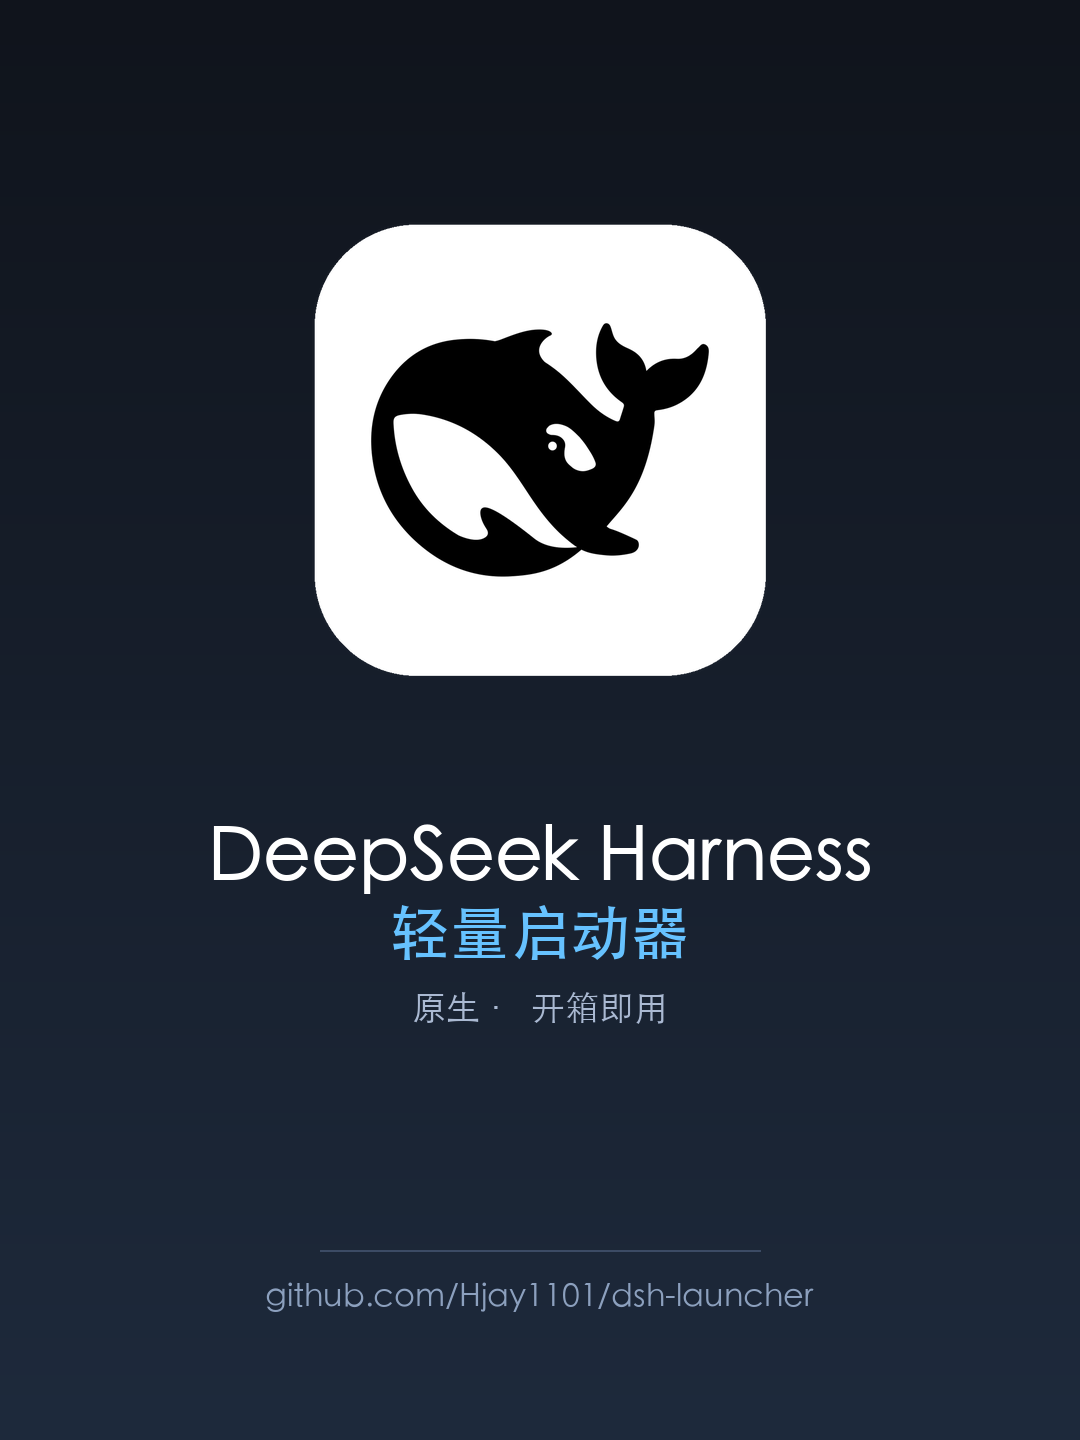
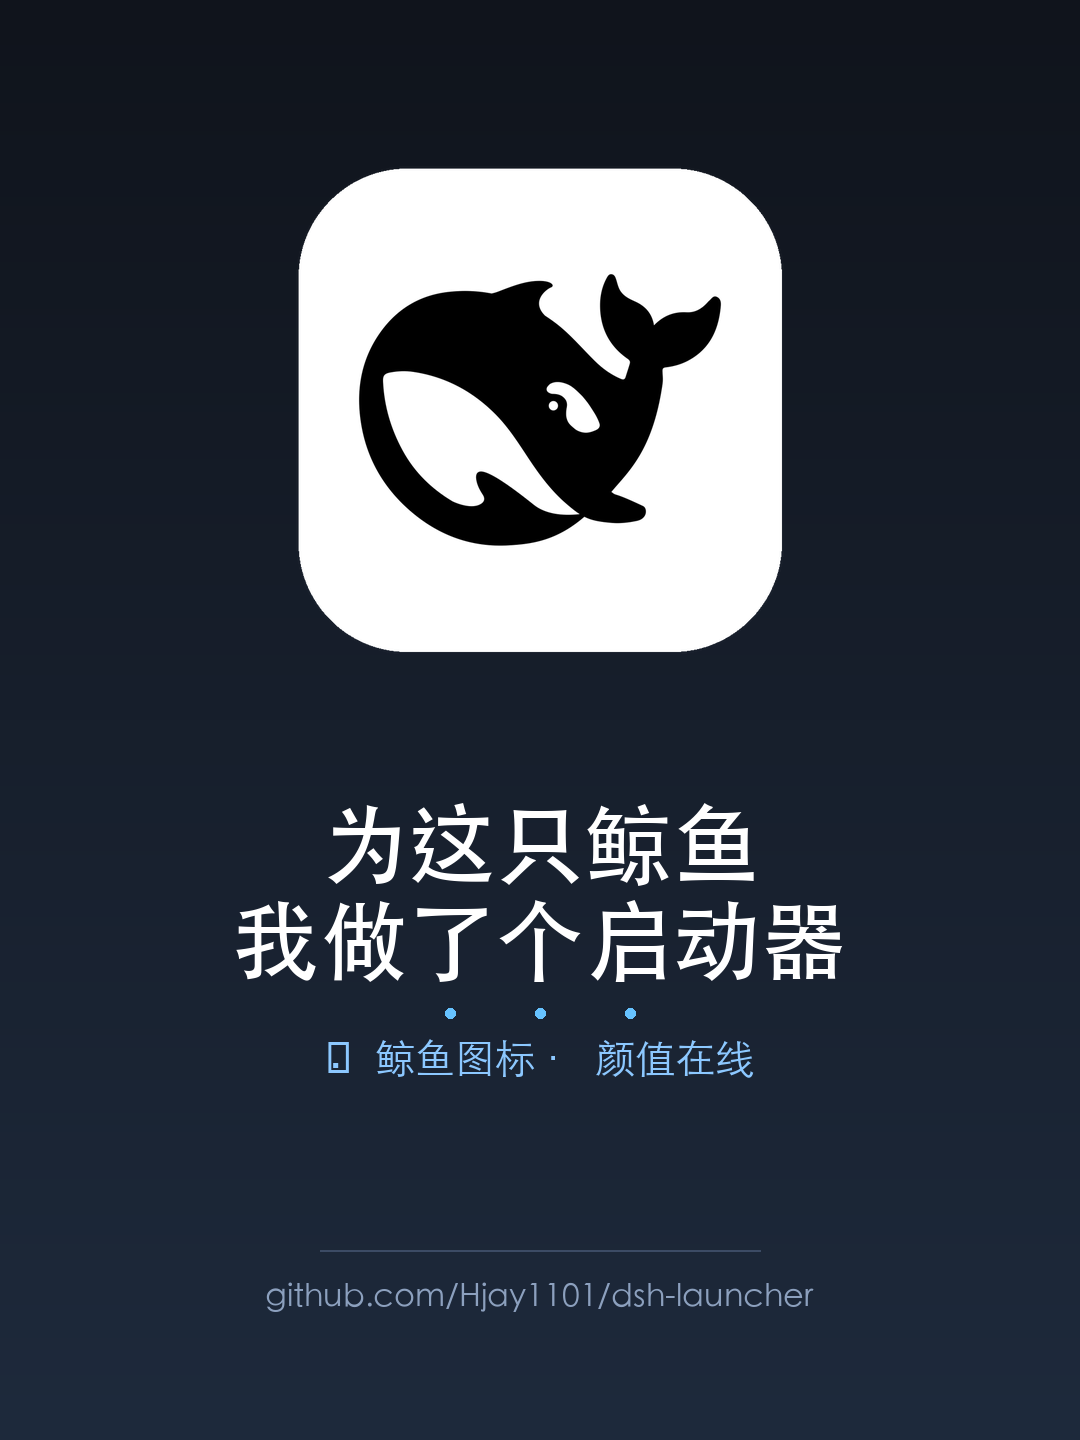
feat: cover headline Option D — '为这只鲸鱼，我做了个启动器'
Punch headline + hook line emphasising the whale's looks
(🐋 鲸鱼图标·颜值在线). Large icon as visual hero, minimal body.

Changed region(s): [[0.275, 0.0938, 0.7333, 0.4375], [0.1833, 0.5625, 0.825, 0.75], [0.3056, 0.4375, 0.7028, 0.4688]]

diff --git a/make-cover.py b/make-cover.py
@@ -1,17 +1,9 @@
 #!/usr/bin/env python3
-"""make-cover.py — generate the minimal social cover (Xiaohongshu 3:4, 1080x1440)
+"""make-cover.py — minimal social cover (Xiaohongshu 3:4, 1080x1440)
 
-Design goal: hook on the whale icon, keep copy minimal so readers click in.
-  - deep blue-black gradient background
-  - large rounded whale icon as the visual hero
-  - one-line title (DeepSeek Harness · 轻量启动器)
-  - one-line subtle hook + GitHub handle at the bottom
-
-Usage:
-  python3 make-cover.py [output.png]
-  (default output: assets/xiaohongshu-cover.png)
-
-Requires: python3 + Pillow, macOS PingFang/Heiti fonts (adjust if not present).
+Design: whale icon as visual hero + one punch headline (Option D) +
+a line emphasising the whale's looks, minimal body copy so readers
+click through. Reproducible: tweak TITLE_MAIN/TITLE_SUB/HOOK and re-run.
 """
 import os
 import sys
@@ -26,21 +18,21 @@ ICON_PATHS = [
     "/Users/doudou/Desktop/dsh-launcher/assets/AppIcon-rounded-1024.png",
 ]
 
-TITLE_MAIN = "DeepSeek Harness"
-TITLE_SUB = "轻量启动器"
-HOOK = "原生 · 开箱即用"
+TITLE_MAIN = "为这只鲸鱼"
+TITLE_SUB = "我做了个启动器"
+HOOK = "🐋 鲸鱼图标 · 颜值在线"
 GITHUB = "github.com/Hjay1101/dsh-launcher"
 
 
 def vertical_gradient(w, h, top, bottom):
-    base = Image.new("RGB", (w, h))
-    d = ImageDraw.Draw(base)
+    img = Image.new("RGB", (w, h))
+    d = ImageDraw.Draw(img)
     for y in range(h):
         r = top[0] + (bottom[0] - top[0]) * y // h
         g = top[1] + (bottom[1] - top[1]) * y // h
         b = top[2] + (bottom[2] - top[2]) * y // h
         d.line([(0, y), (w, y)], fill=(r, g, b))
-    return base
+    return img
 
 
 def center_text(d, text, y, size, fill, path=FONT_MEDIUM):
@@ -54,7 +46,7 @@ def find_icon():
     for p in ICON_PATHS:
         if os.path.exists(p):
             return p
-    raise SystemExit("whale icon not found — run from repo root or pass assets/")
+    raise SystemExit("whale icon not found")
 
 
 def main():
@@ -65,17 +57,25 @@ def main():
     img = vertical_gradient(W, H, (16, 20, 28), (30, 42, 60))
     d = ImageDraw.Draw(img)
 
-    # large whale icon as visual hero
+    # large whale icon as visual hero (upper area, leaves room for text)
     icon = Image.open(find_icon()).convert("RGBA")
-    iw = 560
+    iw = 600
     icon = icon.resize((iw, iw), Image.LANCZOS)
-    img.paste(icon, ((W - iw) // 2, 170), icon)
+    img.paste(icon, ((W - iw) // 2, 110), icon)
 
-    # minimal title
-    y = center_text(d, TITLE_MAIN, 820, 74, (255, 255, 255))
-    y = center_text(d, TITLE_SUB, y, 60, (102, 194, 255))
-    y += 20
-    y = center_text(d, HOOK, y, 34, (170, 185, 210), FONT_LIGHT)
+    # punch headline (two lines) below the icon
+    y = center_text(d, TITLE_MAIN, 800, 88, (255, 255, 255))
+    y = center_text(d, TITLE_SUB, y, 88, (255, 255, 255))
+
+    # small dot separators between headline and hook
+    y += 16
+    dot_cx = W // 2
+    for dx in (-90, 0, 90):
+        d.ellipse([dot_cx + dx - 5, y, dot_cx + dx + 5, y + 10], fill=(102, 194, 255))
+    y += 30
+
+    # hook line emphasising the whale's looks
+    y = center_text(d, HOOK, y, 40, (140, 200, 255), FONT_LIGHT)
 
     # footer
     d.line([(W // 2 - 220, H - 190), (W // 2 + 220, H - 190)], fill=(60, 75, 100), width=2)
